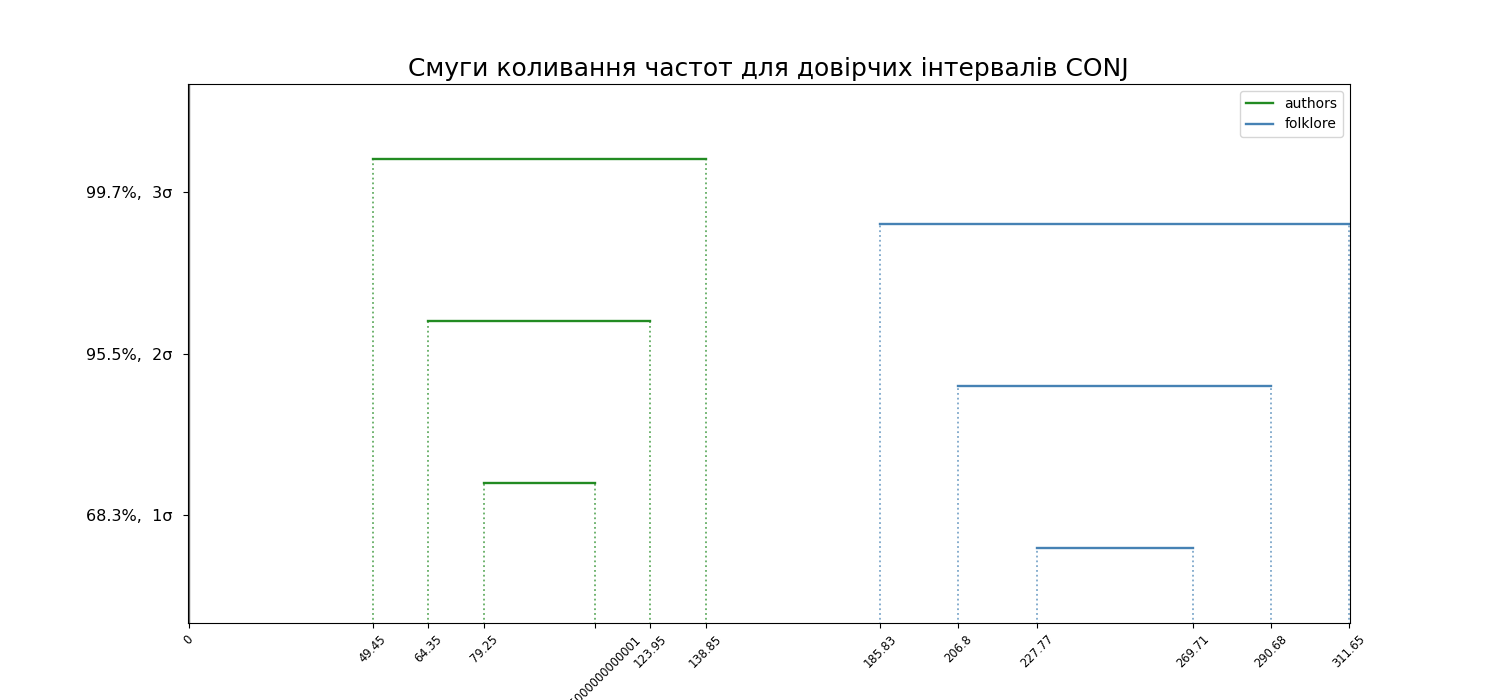
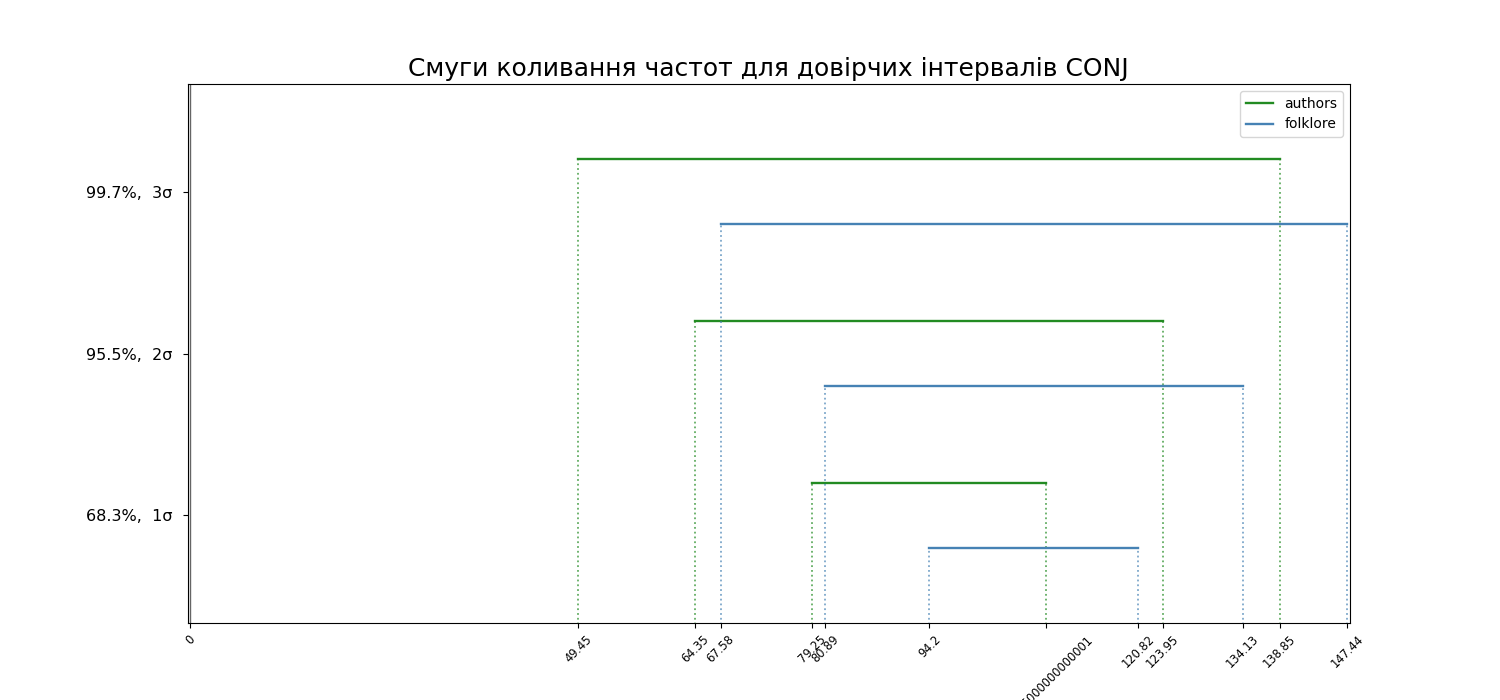
fix a bag, add recalculated results

diff --git a/main.py b/main.py
@@ -122,11 +122,11 @@ def do_calculations(db, table="pos_filtered", polygons=True, freq_str=True, wher
     Збірна функція для виконання всіх необхідних статистичних обрахунків.
     :param db: об'єкт бази даних
     :param table: назва таблиці
-    :param polygons: якщо True, то буде створено графіки полігонів частот (і гістаграм)
+    :param polygons: якщо True, то буде створено графіки полігонів частот (і гістограм)
     :param freq_str: якщо True, то буде створено графіки смуг коливання
     :param where: фільтр пошуку - додається до запиту напряму, без перетворень!
     :param results_path: шлях до теки з результатами обрахунків
-    :param freq_hist_path: шлях до теки, де будуть файли з інтервальними полігоном частот та гістаграмою
+    :param freq_hist_path: шлях до теки, де будуть файли з інтервальними полігоном частот та гістограмою
     :param freq_pol_path: шлях до теки, де будуть файли із графіками звичайного полігону частот
     :param freq_str_path: шлях до теки, де будуть файли із графіками смуг коливання
     :param show: якщо True, то буде виведено на екран всі створені графіки
@@ -142,8 +142,8 @@ def do_calculations(db, table="pos_filtered", polygons=True, freq_str=True, wher
     elif table.startswith("pos"):
         index = 3
 
-    authors_ = db.read_from_table(f"{table}_authors", where=where)
-    folk_ = db.read_from_table(f"{table}_folk", where=where)
+    authors_ = db.read_from_table(f"{table}_authors", where=where, order_by="pos")
+    folk_ = db.read_from_table(f"{table}_folk", where=where, order_by="pos")
 
     for data_a, data_f in zip(authors_, folk_):
         subs_a = data_a[index:]
@@ -185,10 +185,6 @@ def do_calculations(db, table="pos_filtered", polygons=True, freq_str=True, wher
         with open(f"{results_path}{data_a[1]}.txt", "w", encoding="utf-8") as file:
             print(f"Абсолютна частота автори:\t", data_a[index-1], file=file, end='\n\n')
             print(f"Абсолютна частота фольк:\t", data_f[index-1], file=file, end='\n\n')
-
-            # це і сума по абсолютних частотах - для опису таблиць, а не одиниць в них
-            # print(f"Унікальних одиниць автори:\t", len(data_a), file=file, end='\n\n')
-            # print(f"Унікальних одиниць фольк:\t", len(data_f), file=file, end='\n\n')
 
             print(f"Варіаційний ряд автори:", file=file)
             print(grouped_a, file=file, end='\n\n')
@@ -239,9 +235,9 @@ def do_calculations(db, table="pos_filtered", polygons=True, freq_str=True, wher
             if data_a in ["ADJ", "ADV", "PREP"]:
                 st_a = st.standard_error(st_dev_a, len(subs_a), s=True)
                 st_f = st.standard_error(st_dev_f, len(subs_f), s=True)
-                st_cr = st.students_criterion((mean_a, mean_f), (st_a, st_f))
+                st_t_test = st.students_t_test((mean_a, mean_f), (st_a, st_f))
                 fr_gr_stud = st.freedom_greade((sum(subs_a), sum(subs_f)), len(samples), students_criterion_=True)
-                print(f"Критерій Стьюдента:\t", st_cr, file=file)
+                print(f"Критерій Стьюдента:\t", st_t_test, file=file)
                 print(f"Кількість ступенів свободи:\t", fr_gr_stud, file=file, end='')
 
         if polygons:

diff --git a/statistics.py b/statistics.py
@@ -74,7 +74,7 @@ def group_by_intervals(frequencies: tuple) -> dict:
 def frequency_polygon_by_intervals(frequencies: tuple, xlabel: str, x_max: int = 400, y_max: int = 70,
                                    x_ticks_freq: int = 20, show: bool = True, path="results\\pos\\freq_his\\") -> None:
     """
-    Графік інтервального полігону частот та гістаграми.
+    Графік інтервального полігону частот та гістограми.
     :param frequencies: частоти досліджуваної одиниці у підвибірках
     :param xlabel: назва досліджуваної одиниці
     :param x_max: ширина графіка
@@ -439,7 +439,7 @@ def freedom_greade(num_of_subsamples: tuple, num_of_samples: int, students_crite
     return (num_of_subsamples[0] - 1) * (num_of_samples - 1)
 
 
-def students_criterion(samples_mean_freq: tuple, s_: tuple) -> float:
+def students_t_test(samples_mean_freq: tuple, s_: tuple) -> float:
     """
     Критерій Стьюдента.
     :param samples_mean_freq:
